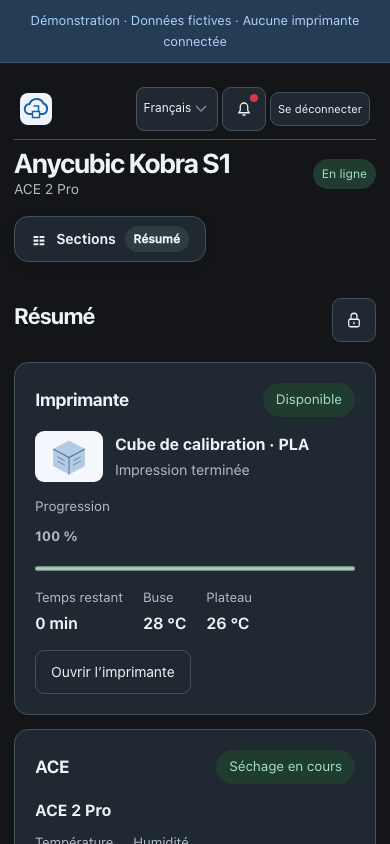
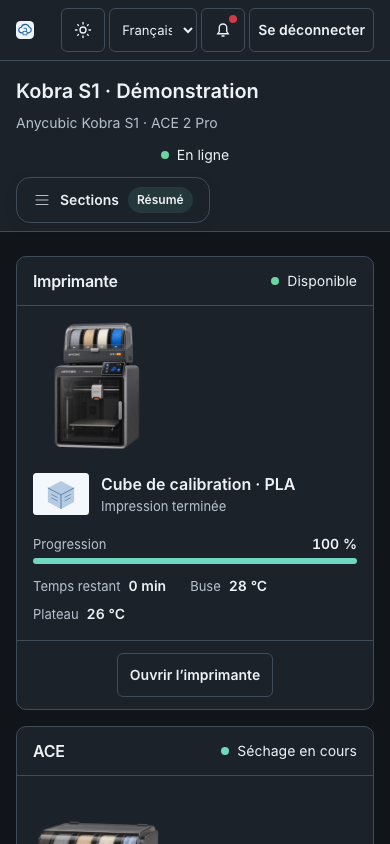
Accorder les mouvements et renouveler les captures de l’atelier

diff --git a/web/css/interactions.css b/web/css/interactions.css
@@ -23,7 +23,7 @@
    Les relevés et rafraîchissements ne déplacent pas la surface de travail. */
 :root[data-style] {
   --section-entry: section-fade;
-  --section-entry-duration: 220ms;
+  --section-entry-duration: var(--motion-panel);
   --heading-entry: heading-rise;
   --dialog-entry: dialog-rise;
 }
@@ -57,18 +57,8 @@
 }
 
 @keyframes section-fade { from { opacity:.55; } }
-@keyframes section-reveal { from { opacity:.5; clip-path:inset(0 10% 0 0); } to { clip-path:inset(0); } }
-@keyframes heading-rise { from { translate:0 9px; } }
-@keyframes heading-spring {
-  0% { translate:0 12px; }
-  70% { translate:0 -2px; }
-  100% { translate:0 0; }
-}
-@keyframes heading-sweep { from { translate:-10px 0; } }
-@keyframes heading-drift { from { translate:12px 0; } }
-@keyframes heading-deal { from { opacity:.5; translate:0 13px; } }
-@keyframes dialog-rise { from { opacity:0; translate:0 10px; } }
-@keyframes dialog-pop { from { opacity:0; scale:.96; } }
+@keyframes heading-rise { from { translate:0 var(--atelier-space-2); } }
+@keyframes dialog-rise { from { opacity:0; translate:0 var(--atelier-space-3); } }
 @keyframes backdrop-fade { from { opacity:0; } }
 /* Le texte affiche tout de suite la mesure reçue. Seule sa présentation bouge. */
 @media (prefers-reduced-motion:no-preference) {

diff --git a/web/css/atelier-frame.css b/web/css/atelier-frame.css
@@ -300,3 +300,33 @@ html[data-style] .workshop-frame .printer-footer {
     padding-block-start: var(--atelier-space-1);
   }
 }
+
+
+/* Le trait animé est réservé à la navigation horizontale. Le rail et les tuiles gardent leur état local. */
+.atelier-navigation-marker-layer, .atelier-navigation-marker { display: none; }
+@media (min-width: 761px) {
+  html:not([data-style="lab"]) .workshop-frame #atelier-tabs { position: relative; }
+  html:not([data-style="lab"]) .atelier-navigation-marker-layer {
+    display: block;
+    position: absolute;
+    inset: 0;
+    overflow: hidden;
+    pointer-events: none;
+  }
+  html:not([data-style="lab"]) .atelier-navigation-marker {
+    position: absolute;
+    inset-block-start: calc(-1 * var(--atelier-active-rule));
+    inset-inline-start: 0;
+    display: block;
+    block-size: var(--atelier-active-rule);
+    background: var(--atelier-accent);
+    pointer-events: none;
+  }
+  html:not([data-style="lab"]) #atelier-tabs[data-marker-ready] .atelier-navigation-marker {
+    transition: translate var(--motion-fast) var(--motion-ease),
+      inline-size var(--motion-fast) var(--motion-ease);
+  }
+  html:not([data-style="lab"]) .workshop-frame #atelier-tabs[data-marker-ready] [aria-current="page"] {
+    box-shadow: none;
+  }
+}

diff --git a/web/css/atelier-components.css b/web/css/atelier-components.css
@@ -154,3 +154,31 @@ button.atelier-control-icon {
   }
   .atelier-card-body { padding-block: var(--atelier-space-2); }
 }
+
+/* Les fenêtres standard utilisent les mêmes rôles et la même échelle que les cartes. */
+body:has(.workshop-frame) > dialog:not(:where(#task-dialog)) {
+  padding: var(--atelier-space-5);
+  border: var(--atelier-rule) solid var(--atelier-line);
+  border-radius: var(--atelier-card-radius);
+  background: var(--atelier-surface);
+  color: var(--atelier-fg);
+  font: var(--atelier-text);
+  box-shadow: var(--atelier-dialog-shadow);
+}
+body:has(.workshop-frame) > dialog :is(.dialog-top > h2, #confirm-title) {
+  margin: 0;
+  font: var(--atelier-title);
+  font-weight: var(--atelier-semibold);
+}
+body:has(.workshop-frame) > dialog :is(.dialog-close, #confirm-yes, #confirm-no) {
+  min-block-size: var(--atelier-control);
+  padding-block: 0;
+  border-radius: var(--atelier-control-radius);
+  font: var(--atelier-text);
+  font-weight: var(--atelier-semibold);
+}
+@media (max-width: 760px) {
+  body:has(.workshop-frame) > dialog:not(:where(#task-dialog)) {
+    padding: var(--atelier-space-4);
+  }
+}

diff --git a/web/css/imprimante.css b/web/css/imprimante.css
@@ -489,10 +489,6 @@ dialog{background:var(--surface);color:var(--text)}
 
 /* Sous le seuil du rail, les tuiles gardent toute leur largeur pour les libellés. */
 
-/* Aurore compose quatre cartes réordonnables et conserve le même tableau après rechargement. */
-
-/* Apple et Océan partagent un repère actif translucide qui suit la section choisie. */
-
 /* Tile Build assemble le menu en vague et le démonte dans l’ordre inverse. */
 @keyframes tile-enter{0%{opacity:0;transform:translateY(18px) scale(.88);clip-path:inset(16% 12% round 18px)}70%{opacity:1;transform:translateY(-2px) scale(1.015)}100%{opacity:1;transform:none;clip-path:inset(0 round 12px)}}
 @keyframes tile-exit{0%{opacity:1;transform:none;clip-path:inset(0 round 12px)}100%{opacity:0;transform:translateY(12px) scale(.9);clip-path:inset(12% 9% round 18px)}}

diff --git a/web/css/workshop-navigation.css b/web/css/workshop-navigation.css
@@ -151,13 +151,13 @@
   }
 
   #atelier-tabs[data-phase="opening"] .atelier-nav-group > button {
-    animation: tile-enter .28s both;
-    animation-delay: calc(var(--tile-index, 0) * 42ms);
+    animation: tile-enter var(--motion-panel) var(--motion-ease) both;
+    animation-delay: calc(var(--tile-index, 0) * var(--motion-tile-stagger));
   }
 
   #atelier-tabs[data-phase="closing"] .atelier-nav-group > button {
-    animation: tile-exit .24s both;
-    animation-delay: calc(var(--tile-exit-index, 0) * 24ms);
+    animation: tile-exit var(--motion-panel) var(--motion-ease) both;
+    animation-delay: calc(var(--tile-exit-index, 0) * var(--motion-tile-stagger));
   }
 }
 

diff --git a/web/css/atelier-tokens.css b/web/css/atelier-tokens.css
@@ -57,6 +57,7 @@
   --accent: var(--atelier-accent);
   --font: var(--atelier-font);
   --atelier-access-width: 480px;
+  --atelier-dialog-shadow: 0 20px 80px #0002;
   --atelier-on-accent: light-dark(var(--atelier-surface), var(--atelier-bg));
 }
 @media (pointer: coarse), (max-width: 760px) {

diff --git a/web/css/landing.css b/web/css/landing.css
@@ -105,6 +105,7 @@ body.login-body {
   /* La connexion charge cette feuille avant les styles de l’atelier. */
   --motion-fast: 180ms;
   --motion-panel: 240ms;
+  --motion-tile-stagger: 24ms;
   --motion-ease: cubic-bezier(.18,.72,.28,1);
   --bg: #f5f5f7;
   --surface: #ffffff;

diff --git a/screenshots/README.md b/screenshots/README.md
@@ -12,7 +12,7 @@ Captures de la démonstration authentifiée, produites avec `scripts/capture_dem
 | [11-dossiers-cloud.png](11-dossiers-cloud.png) | Dossier Cloud, sélection de fichiers et destination fictifs. |
 | [04-envoyer-imprimer.png](04-envoyer-imprimer.png) | Envoi de G-code et ordre des bobines. |
 | [05-camera.png](05-camera.png) | Lecteur, éclairage et axes ; illustration de démonstration, pas un flux réel. |
-| [06-historique.png](06-historique.png) | Cartes, statuts, dates, recherche et sélection de fiches. |
+| [06-historique.png](06-historique.png) | Tableau, statuts, dates, recherche et sélection de fiches. |
 | [07-reglages.png](07-reglages.png) | Connexion, versions et réglages. |
 | [08-notifications.png](08-notifications.png) | Cloche, compteurs, filtres, recherche et actions sur les messages. |
 | [09-detection-ia.png](09-detection-ia.png) | Fenêtre de détection IA. |
@@ -21,20 +21,20 @@ Captures de la démonstration authentifiée, produites avec `scripts/capture_dem
 | [14-statistiques.png](14-statistiques.png) | Mesures par appareil et par emplacement. |
 | [15-journal.png](15-journal.png) | Journal historique depuis l’onglet Historique. |
 | [16-fiche-erreur.png](16-fiche-erreur.png) | Fiche locale du code 10115. |
-| [17-six-styles.jpg](17-six-styles.jpg) | Comparaison des six styles avant Prisme. |
+| [17-quatre-styles.jpg](17-quatre-styles.jpg) | Les quatre styles actuels en clair. |
 | [18-code-temporaire.png](18-code-temporaire.png) | Étape de vérification, formulaire vide. |
 | [19-resume-sombre.png](19-resume-sombre.png) | Résumé en mode sombre. |
 | [20-supervision-sombre.png](20-supervision-sombre.png) | Supervision en mode sombre. |
 | [21-resume-mobile.png](21-resume-mobile.png) | Résumé sur téléphone. |
 | [22-detail-supervision.png](22-detail-supervision.png) | Détail des relevés dans Parc et santé. |
-| [23-prisme-sombre.png](23-prisme-sombre.png) | Prisme sur ordinateur à 1 920 × 1 080 px, en mode sombre. |
-| [24-prisme-mobile.png](24-prisme-mobile.png) | Prisme sur téléphone, en mode sombre. |
+| [23-verriere-sombre.png](23-verriere-sombre.png) | Verrière sur ordinateur à 1 920 × 1 080 px, en mode sombre. |
+| [24-verriere-mobile.png](24-verriere-mobile.png) | Verrière sur téléphone, en mode sombre. |
 
 Pour les refaire : installer les dépendances de développement et Chromium Playwright, puis lancer `node scripts/capture_demo.cjs` depuis la racine. Le script démarre uniquement `app/demo.py --auth`, crée un fichier temporaire de mot de passe fictif et ferme ce serveur après capture. `UI_PYTHON` permet de choisir l’interpréteur Python du projet. Aucun moteur Docker n’est nécessaire.
 
-La capture de session présente deux noms d’imprimantes fictifs pour illustrer le sélecteur. Le navigateur des captures utilise le français. Les captures de bureau mesurent 1 440 × 1 000 px, avec une vue de Prisme à 1 920 × 1 080 px. La vue mobile mesure 390 × 844 px. Ne jamais utiliser un compte réel pour produire les images publiques.
+La capture de session présente deux noms d’imprimantes fictifs pour illustrer le sélecteur. Le navigateur des captures utilise le français. Les captures de bureau mesurent 1 440 × 1 000 px, avec une vue de Verrière à 1 920 × 1 080 px. La vue mobile mesure 390 × 844 px. Ne jamais utiliser un compte réel pour produire les images publiques.
 
-## Comparaison historique des styles conservés
+## Comparaison historique avec la version 1.8.0
 
 Chaque planche compare la version 1.8.0 et la revue de l’interface, en clair, en sombre et à 390 px en clair. Les vues sont recadrées pour montrer les changements au même emplacement.
 
@@ -43,3 +43,7 @@ Chaque planche compare la version 1.8.0 et la revue de l’interface, en clair, 
 - [Blueprint · Imprimante](design/blueprint.jpg)
 - [Aurore · Imprimante](design/aurora.jpg)
 - [Laboratoire · ACE et filaments](design/lab.jpg)
+
+## Comparaison avec les maquettes
+
+Les [références HTML](../docs/DESIGN.md#maquettes-de-référence) s’ouvrent localement. Les [captures de la refonte](refonte/) montrent le cadre, les pages, les versions claire et sombre et le rendu sur téléphone.

diff --git a/docs/DESIGN.md b/docs/DESIGN.md
@@ -22,3 +22,31 @@ Les styles redéfinissent les couleurs, la police et les deux rayons. Le Laborat
 ## Maquettes de référence
 
 Ouvrir [les règles communes](design/maquette/regles.html) et [le Résumé](design/maquette/resume.html) dans un navigateur à 1 440 px. Les onglets du Résumé ouvrent les autres maquettes. Les données de ces pages sont des exemples. Les fichiers utilisent la police Inter locale du projet.
+
+| Écran | Fichier de référence |
+| --- | --- |
+| Résumé | [resume.html](design/maquette/resume.html) |
+| Imprimante | [imprimante.html](design/maquette/imprimante.html) |
+| ACE | [ace.html](design/maquette/ace.html) |
+| Fichiers | [fichiers.html](design/maquette/fichiers.html) |
+| Envoyer | [envoyer.html](design/maquette/envoyer.html) |
+| Caméra | [camera.html](design/maquette/camera.html) |
+| Historique | [historique.html](design/maquette/historique.html) |
+| Parc et santé | [parc.html](design/maquette/parc.html) |
+| Statistiques | [statistiques.html](design/maquette/statistiques.html) |
+| Réglages | [reglages.html](design/maquette/reglages.html) |
+
+## Vérification
+
+Le test de mise en page ouvre les dix sections du jeu de démonstration à 1 366 × 768 et 1 920 × 1 080, dans les quatre styles et les deux modes de couleur. Il vérifie que la page tient dans la fenêtre. Les tests sur téléphone vérifient l’absence de débordement horizontal. Les [captures](../screenshots/README.md) sont produites à partir d’un serveur de démonstration.
+
+Le contrôle des valeurs s’applique aux feuilles `atelier-*.css`. Les feuilles historiques comportent encore des valeurs propres à leurs composants. L’inventaire ci-dessous compare les déclarations littérales de `web/css/` avant la refonte et après le retrait de la feuille de densité et des dispositions propres aux styles. Les références de variables, les seuils de média et les couleurs des SVG incorporés sont exclus.
+
+| Valeurs distinctes | Avant | Après |
+| --- | ---: | ---: |
+| Tailles et interlignes écrits dans les déclarations de texte | 75 | 64 |
+| Rayons | 28 | 25 |
+| Marges et écarts | 56 | 54 |
+| Marges intérieures | 58 | 47 |
+| Ombres | 50 | 28 |
+| Couleurs littérales | 301 | 246 |

diff --git a/docs/INTERACTION-REFERENCES.md b/docs/INTERACTION-REFERENCES.md
@@ -11,10 +11,10 @@ un retour compréhensible et un fonctionnement au clavier et sur téléphone.
 | --- | --- | --- |
 | [Lote](https://moxen.cl/recursos/lote/) | Peindre la sélection dans la colonne des cases, Maj+clic, barre contextuelle | Sélection des fichiers Cloud, volume connu et actions existantes avec confirmation |
 | [Instrumental](https://moxen.cl/recursos/instrumental/) et capture 435 | Mesures en cartes, historique et agrandissement d’un détail | Monitoring local de l’application, avec unités, sources et absence de données explicites |
-| [Parrilla](https://moxen.cl/recursos/parrilla/) | Widgets qui se réorganisent et disposition mémorisée | Cartes de l’accueil Aurore, déplacement et restauration de la disposition |
+| [Parrilla](https://moxen.cl/recursos/parrilla/) | Widgets qui se réorganisent et disposition mémorisée | Ancienne disposition modulable, retirée lors de la refonte. |
 | [Bento Grid](https://builder.atheros.ai/) et capture fournie | Zones qui changent de colonnes selon la largeur utile | Inspiration pour la composition des neuf sections, les cartes de mesures et le panneau de notifications |
 | [Portada](https://moxen.cl/recursos/portada/) | Un panneau de menu évolue avec le choix courant | Navigation adaptative et repère de section actif |
-| [Pasarela](https://moxen.cl/recursos/pasarela/) | Indicateur qui voyage, gestion du clavier | Navigation en verre Apple et Océan |
+| [Pasarela](https://moxen.cl/recursos/pasarela/) | Indicateur qui voyage, gestion du clavier | Navigation horizontale actuelle, repère sous l’onglet. Inspiration. |
 | [Profil](https://moxen.cl/recursos/perfil/) | Détail dépliable et déplacement par transformation | Cartes de monitoring, transitions interrompables |
 | [Acceso](https://moxen.cl/recursos/acceso/) | Écran de connexion traité comme une interface complète | Panneau translucide, affichage du mot de passe, attente et erreur serveur |
 | [Mirada](https://moxen.cl/recursos/mirada/) | Contrôle explicite de visibilité du mot de passe | Bouton Afficher/Masquer accessible et compatible avec le remplissage automatique |

diff --git a/README.md b/README.md
@@ -174,7 +174,7 @@ Le [glossaire ACE](docs/ACE-GLOSSARY.md) précise les termes français, anglais 
 
 Avant un envoi avec impression ou une réimpression, l’atelier signale les différences connues entre matières, couleurs et emplacements. Ces avis permettent une confirmation volontaire ; des métadonnées manquantes sont indiquées explicitement. Une mise à jour en cours confirmée empêche tout lancement. Les [notes de protocole](docs/PROTOCOL.md#investigations-du-10-novembre-2026) indiquent les fonctions encore en attente de preuve.
 
-Le [guide des quatre styles](docs/THEMES.md) présente leurs dispositions et leurs interactions. Les [journaux du conteneur](docs/TROUBLESHOOTING.md#journaux-du-conteneur) proposent un format lisible ou JSON et un niveau DEBUG, avec références de diagnostic et filtrage des données privées.
+Le [guide des quatre styles](docs/THEMES.md) présente leurs palettes et leur navigation commune. Les [maquettes HTML de référence](docs/DESIGN.md#maquettes-de-référence) couvrent les dix onglets. Les [journaux du conteneur](docs/TROUBLESHOOTING.md#journaux-du-conteneur) proposent un format lisible ou JSON et un niveau DEBUG, avec références de diagnostic et filtrage des données privées.
 
 La [supervision locale](docs/MONITORING.md) expose neuf cartes détaillables dans Parc et santé, sans nouveau collecteur Cloud. Le [protocole de diagnostic](docs/DIAGNOSTIC-PROTOCOL.md) définit les preuves attendues à chaque essai. La [comparaison des intégrations et forks](docs/UPSTREAM-COMPARISON.md) complète les recherches de compatibilité.
 

diff --git a/docs/SOURCES.md b/docs/SOURCES.md
@@ -2,7 +2,7 @@
 
 | Ressource | Origine | Date | Archive d’origine | Utilisation dans l’atelier |
 | --- | --- | --- | --- | --- |
-| Parrilla · Moxen | [Démo et téléchargement](https://moxen.cl/recursos/parrilla/) | 2026-11-11 | `web/vendor/moxen/parrilla/` | `web/js/workshop-layout.mjs` et `web/css/workshop-layout.css`. Ressort de déplacement, soulèvement, cible d’insertion et retour d’une tuile pendant l’édition. |
+| Parrilla · Moxen | [Démo et téléchargement](https://moxen.cl/recursos/parrilla/) | 2026-11-11 | `web/vendor/moxen/parrilla/` | `web/js/workshop-layout.mjs` et `web/css/workshop-layout.css`. Ressort de déplacement, soulèvement, cible d’insertion et retour d’une tuile pendant l’édition. Intégration retirée avec les dispositions modulables (#284). |
 | Lote · Moxen | [Démo et téléchargement](https://moxen.cl/recursos/lote/) | 2026-11-11 | `web/vendor/moxen/lote/` | `web/js/workshop-selection.mjs`, `web/js/workshop-files.mjs` et `web/css/interactions.css`. Compteur à rouleaux, entrée de la barre et cascade de sélection. |
 | Arrastre · Moxen | [Démo et téléchargement](https://moxen.cl/recursos/arrastre/) | 2026-11-11 | `web/vendor/moxen/arrastre/` | `web/js/workshop-upload-motion.mjs` et `web/css/interactions.css`. Inclinaison et lumière de la zone de dépôt. |
 | Remesa · Moxen | [Démo et téléchargement](https://moxen.cl/recursos/remesa/) | 2026-11-11 | `web/vendor/moxen/remesa/` | `web/js/workshop-upload-motion.mjs` et `web/css/interactions.css`. Contour animé pendant un transfert. |
